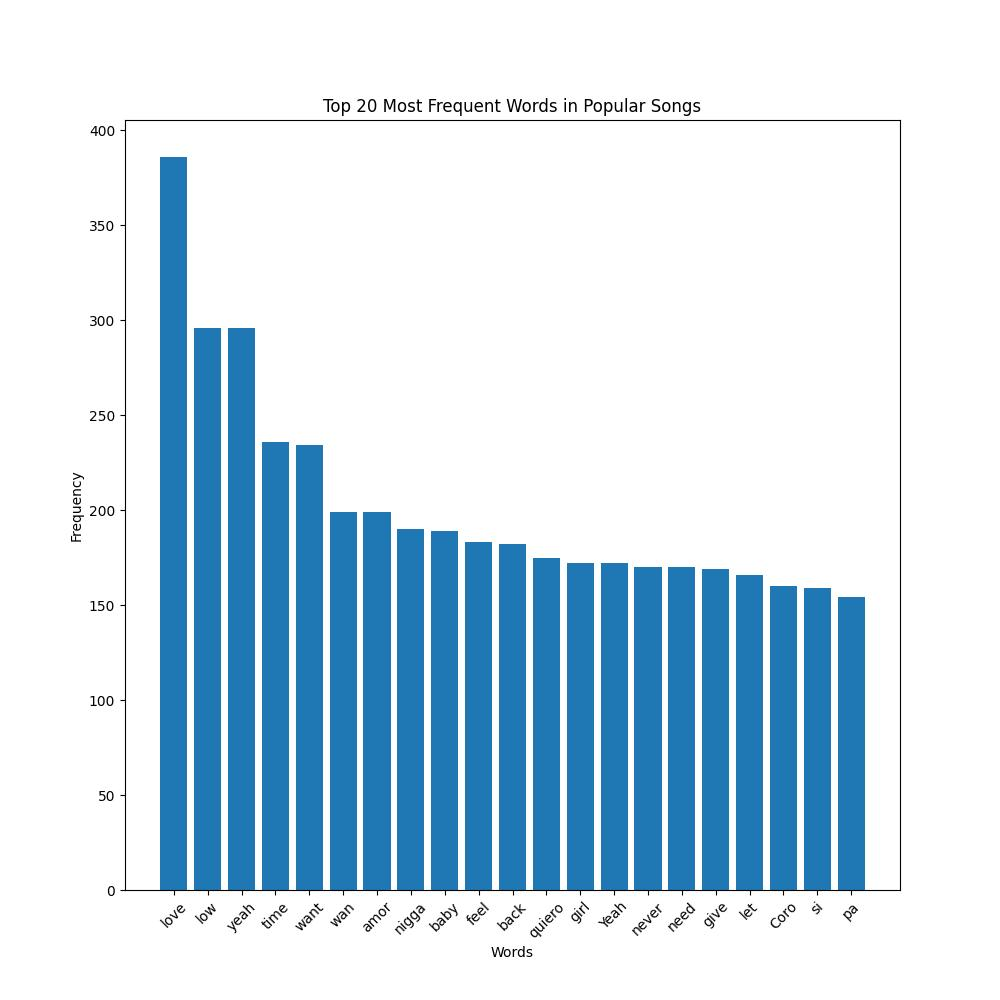
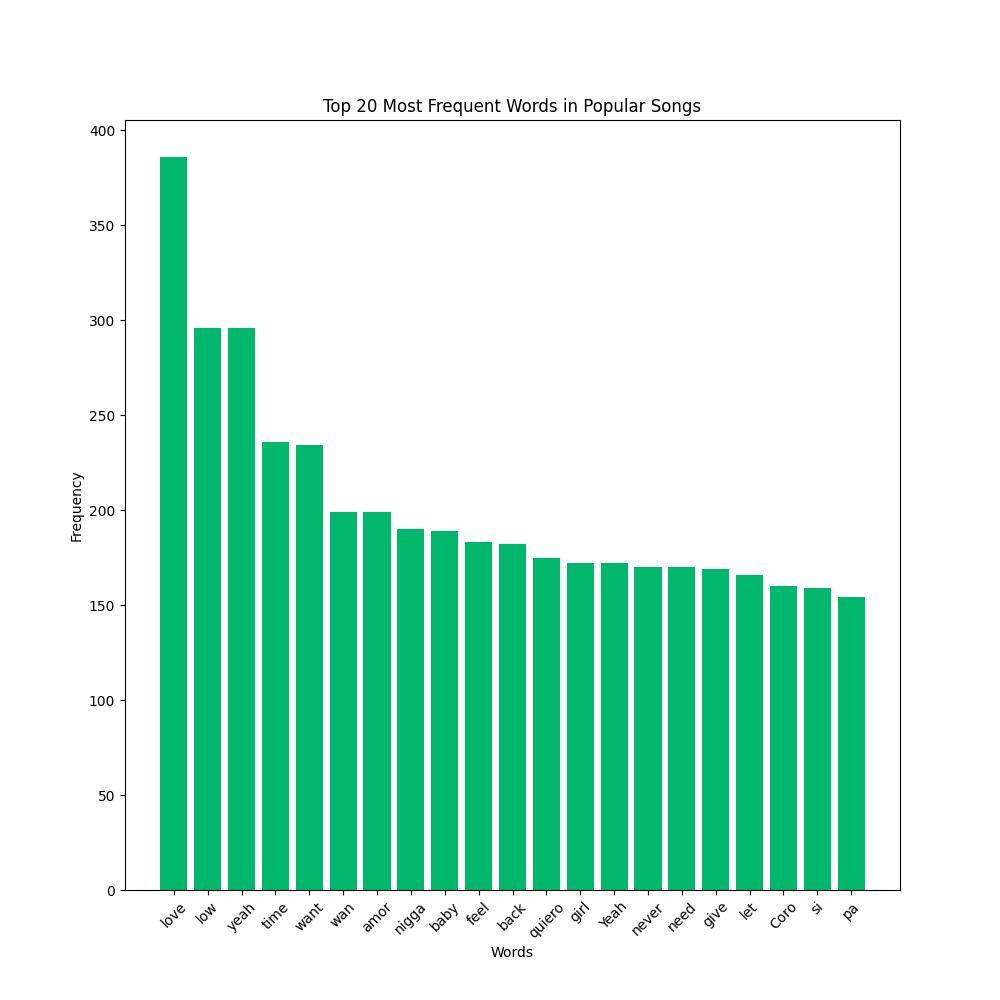
Color changes

Changed region(s): [[0.155, 0.155, 0.868, 0.899]]

diff --git a/functions/top20_freq.py b/functions/top20_freq.py
@@ -57,7 +57,7 @@ def top20_words_frequency(num_letters, directory):
 
     # Plotting the histogram
     plt.figure(figsize=(10, 10))
-    plt.bar(words, counts)
+    plt.bar(words, counts, color='#00b76c')
     plt.xlabel('Words')
     plt.ylabel('Frequency')
     plt.title('Top 20 Most Frequent Words in Popular Songs')
